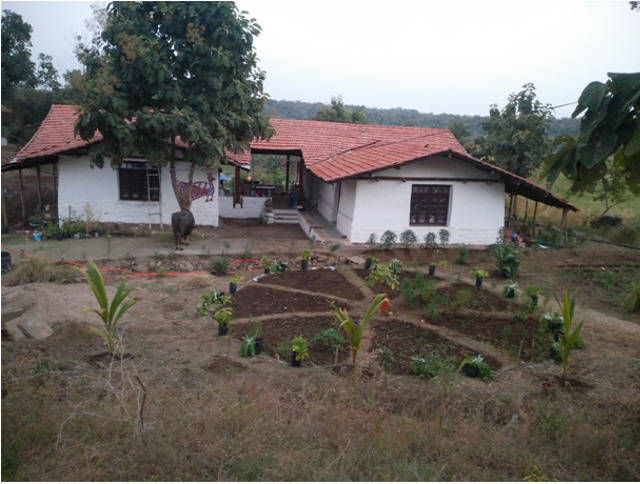
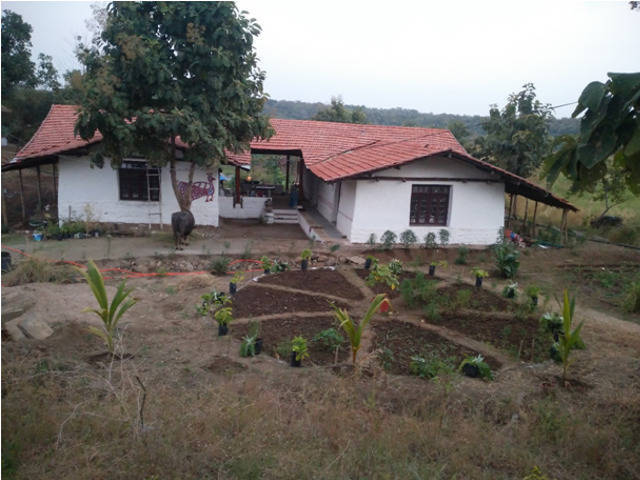
Update image paths

diff --git a/index.html b/index.html
@@ -233,10 +233,10 @@ License URL: http://creativecommons.org/licenses/by/3.0/
 						<figure class="col-md-4 effect-zoe"><img src="images/gallery/image_2.JPG"><figcaption><h4>PLOUGH</h4></figcaption></figure>
 						<figure class="col-md-4 effect-zoe"><img src="images/gallery/image_3.JPG"><figcaption><h4>LIVESTOCK</h4></figcaption></figure>
 						<figure class="col-md-4 effect-zoe"><img src="images/gallery/image_4.JPG"><figcaption><h4>FARMING</h4></figcaption></figure>
-						<figure class="col-md-4 effect-zoe"><img src="images/gallery/image_5.png"><figcaption><h4>GRAINS</h4></figcaption></figure>
+						<figure class="col-md-4 effect-zoe"><img src="images/gallery/image_5.JPG"><figcaption><h4>GRAINS</h4></figcaption></figure>
 						<figure class="col-md-4 effect-zoe"><img src="images/gallery/image_6.JPG"><figcaption><h4>RAISING</h4></figcaption></figure>
-						<figure class="col-md-4 effect-zoe"><img src="images/gallery/image_7.png"><figcaption><h4>PADDY</h4></figcaption></figure>
-						<figure class="col-md-4 effect-zoe"><img src="images/gallery/image_8.png"><figcaption><h4>CROPS</h4></figcaption></figure>
+						<figure class="col-md-4 effect-zoe"><img src="images/gallery/image_7.JPG"><figcaption><h4>PADDY</h4></figcaption></figure>
+						<figure class="col-md-4 effect-zoe"><img src="images/gallery/image_8.JPG"><figcaption><h4>CROPS</h4></figcaption></figure>
 						<figure class="col-md-4 effect-zoe"><img src="images/g6.jpg" alt="Odyssey"><figcaption><h4>GRAINS</h4></figcaption></figure>
 					</div>
 				</div>
@@ -262,7 +262,7 @@ License URL: http://creativecommons.org/licenses/by/3.0/
 						<p class="dummy-text">Contrary to popular belief, Lorem Ipsum is not simply random text. It has roots in a piece of classical Latin literature from 45 BC, making it over 2000 years old. Richard McClintock, a Latin professor at Hampden-Sydney College in Virginia. Lorem ipsum dolor sit amet, consectetur adipisicing elit, sed do eiusmod tempor incididunt ut labore et dolore magna aliqua.</p>
 					</div>
 					<div>
-						<div class="dummy-img dummy-img-5"><img src="images/gallery/image_5.png"></div>
+						<div class="dummy-img dummy-img-5"><img src="images/gallery/image_5.JPG"></div>
 						<p class="dummy-text aitsheadingw3">GRAINS</p>
 						<p class="dummy-text">Contrary to popular belief, Lorem Ipsum is not simply random text. It has roots in a piece of classical Latin literature from 45 BC, making it over 2000 years old. Richard McClintock, a Latin professor at Hampden-Sydney College in Virginia. Lorem ipsum dolor sit amet, consectetur adipisicing elit, sed do eiusmod tempor incididunt ut labore et dolore magna aliqua.</p>
 					</div>
@@ -272,12 +272,12 @@ License URL: http://creativecommons.org/licenses/by/3.0/
 						<p class="dummy-text">Contrary to popular belief, Lorem Ipsum is not simply random text. It has roots in a piece of classical Latin literature from 45 BC, making it over 2000 years old. Richard McClintock, a Latin professor at Hampden-Sydney College in Virginia. Lorem ipsum dolor sit amet, consectetur adipisicing elit, sed do eiusmod tempor incididunt ut labore et dolore magna aliqua.</p>
 					</div>
 					<div>
-						<div class="dummy-img dummy-img-7"><img src="images/gallery/image_7.png"></div>
+						<div class="dummy-img dummy-img-7"><img src="images/gallery/image_7.JPG"></div>
 						<p class="dummy-text aitsheadingw3">PADDY</p>
 						<p class="dummy-text">Contrary to popular belief, Lorem Ipsum is not simply random text. It has roots in a piece of classical Latin literature from 45 BC, making it over 2000 years old. Richard McClintock, a Latin professor at Hampden-Sydney College in Virginia. Lorem ipsum dolor sit amet, consectetur adipisicing elit, sed do eiusmod tempor incididunt ut labore et dolore magna aliqua.</p>
 					</div>
 					<div>
-						<div class="dummy-img dummy-img-8"><img src="images/gallery/image_8.png"></div>
+						<div class="dummy-img dummy-img-8"><img src="images/gallery/image_8.JPG"></div>
 						<p class="dummy-text aitsheadingw3">CROPS</p>
 						<p class="dummy-text">Contrary to popular belief, Lorem Ipsum is not simply random text. It has roots in a piece of classical Latin literature from 45 BC, making it over 2000 years old. Richard McClintock, a Latin professor at Hampden-Sydney College in Virginia. Lorem ipsum dolor sit amet, consectetur adipisicing elit, sed do eiusmod tempor incididunt ut labore et dolore magna aliqua.</p>
 					</div>
